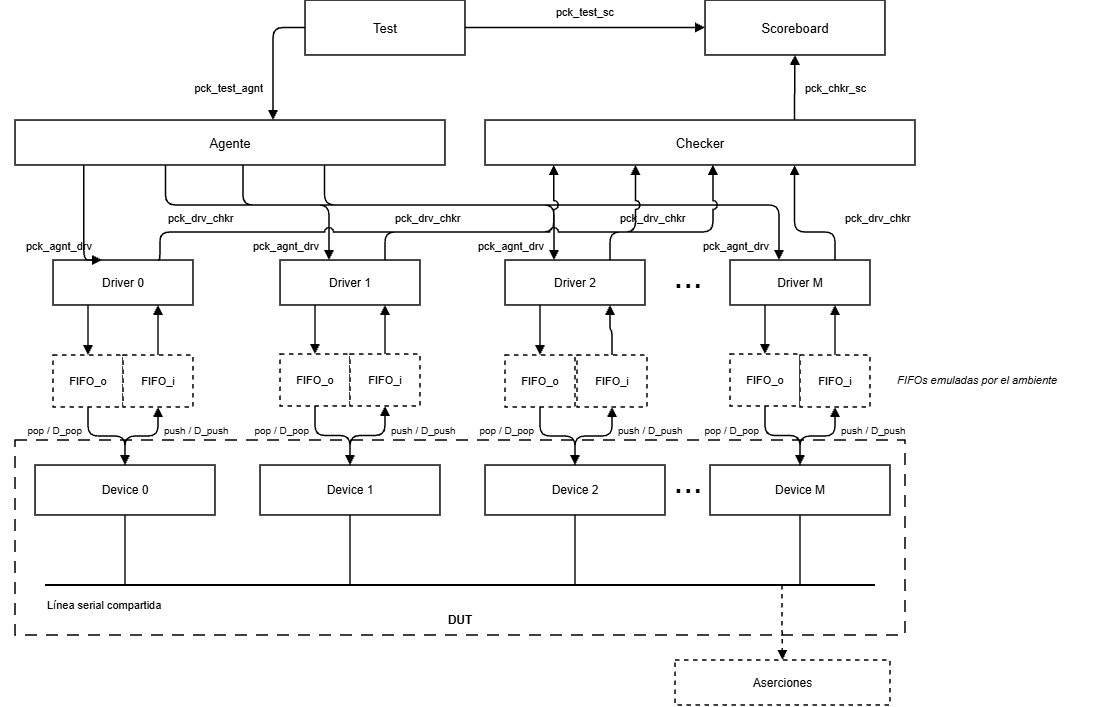
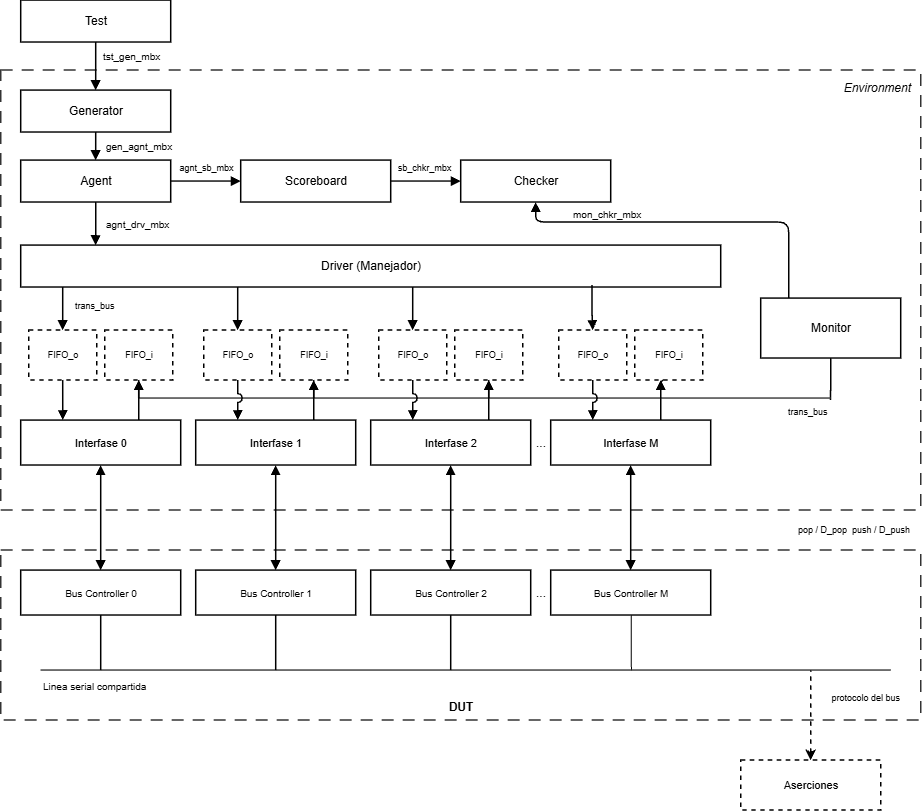
Create scoreboard class to receives transactions from the agent and forwards expected items to the checker

diff --git a/docu/main.tex b/docu/main.tex
@@ -41,9 +41,8 @@
 \end{titlepage}
 
 
-% =====================================================================
+
 \section*{Descripción del dispositivo}
-% =====================================================================
 
 El dispositivo bajo prueba es un bus de comunicación serial compartido al
 que se conectan cuatro dispositivos y cuya función es enrutar paquetes de
@@ -60,30 +59,24 @@ de entrada y salida son emuladas por el ambiente de verificación y no
 forman parte del dispositivo bajo prueba.
 
 
-
-
 \subsection*{Ambiente de verificación}
 
-El ambiente instancia un driver por cada dispositivo del bus. El Test
-genera los paquetes y los entrega al Agente, que los reparte entre los
-drivers; cada driver escribe en la FIFO de salida de su dispositivo y
-recibe lo que el bus deposita en la FIFO de entrada. El Checker recoge lo
-observado por los drivers y el Scoreboard lo contrasta contra los
-paquetes que el Test generó. Las aserciones vigilan el protocolo de la
-línea serial y el cambio de turno.
+El Test define las condiciones del escenario y el Generator genera las transacciones de forma aleatoria dentro de esos límites. El Agent las divide en dos: una va al Driver para ejecutarse y otra al Scoreboard para registrar lo esperado.
+
+El Driver es el único que interactúa directamente con el DUT, colocando las transacciones en las FIFOs correspondientes y activando \texttt{pndng}. Estas FIFOs son parte del ambiente de verificación y no del DUT.
+
+El Monitor observa las respuestas del DUT y registra cuándo llegan, además de identificar su origen según la interfaz que tenía el turno. Finalmente, el Checker compara lo esperado con lo observado para verificar el contenido, destino y latencia. Las aserciones complementan esta verificación al supervisar ciclo a ciclo el protocolo de la línea compartida.
 
 \begin{figure}[H]
     \centering
-    \includegraphics[width=\textwidth]{fig/ambiente.png}
+    \includegraphics[width=0.9\textwidth]{fig/ambiente.png}
     \caption{Bloques del ambiente de verificación y paquetes de
     comunicación entre ellos.}
     \label{fig:ambiente}
 \end{figure}
 
 \newpage
-% =====================================================================
 \section*{Test Plan}
-% =====================================================================
 
 Los casos identificados con el prefijo \texttt{TG} corresponden a Casos
 Generales y los identificados con \texttt{TE} a Casos de Esquina.
